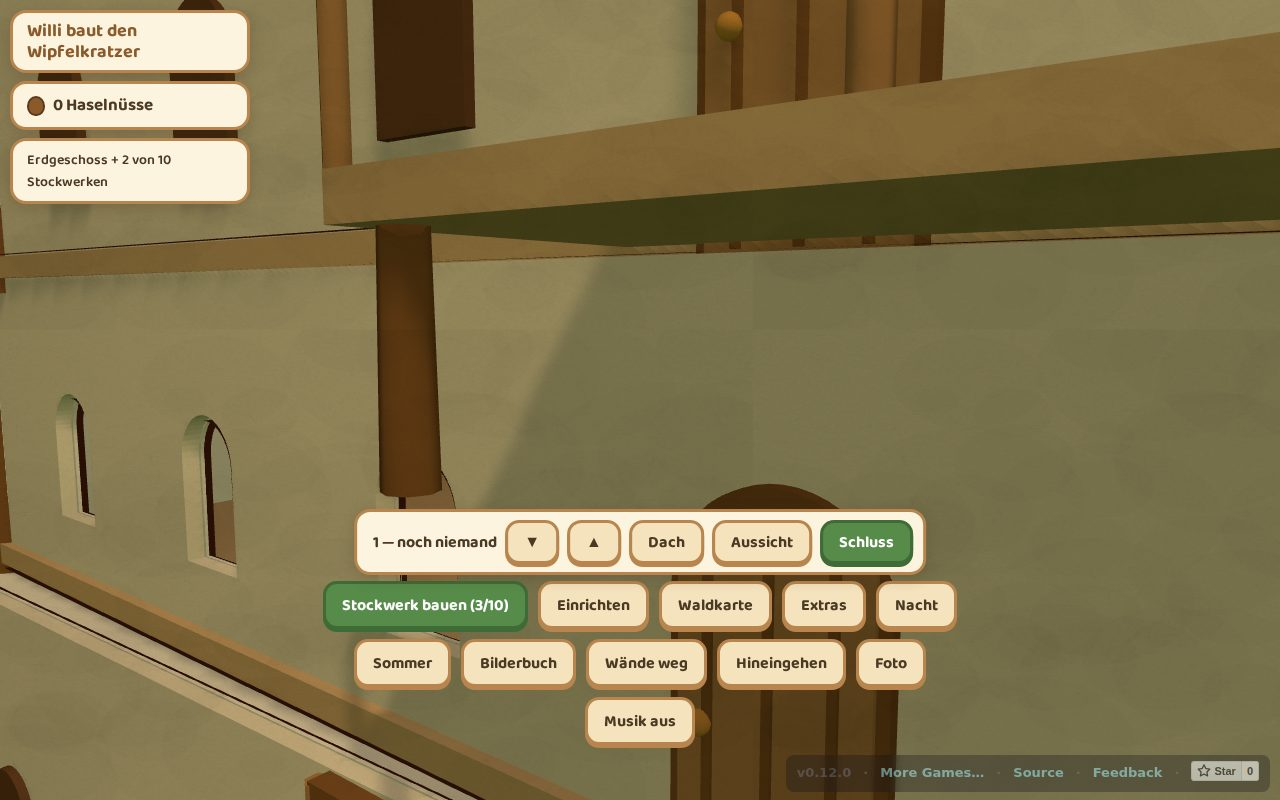
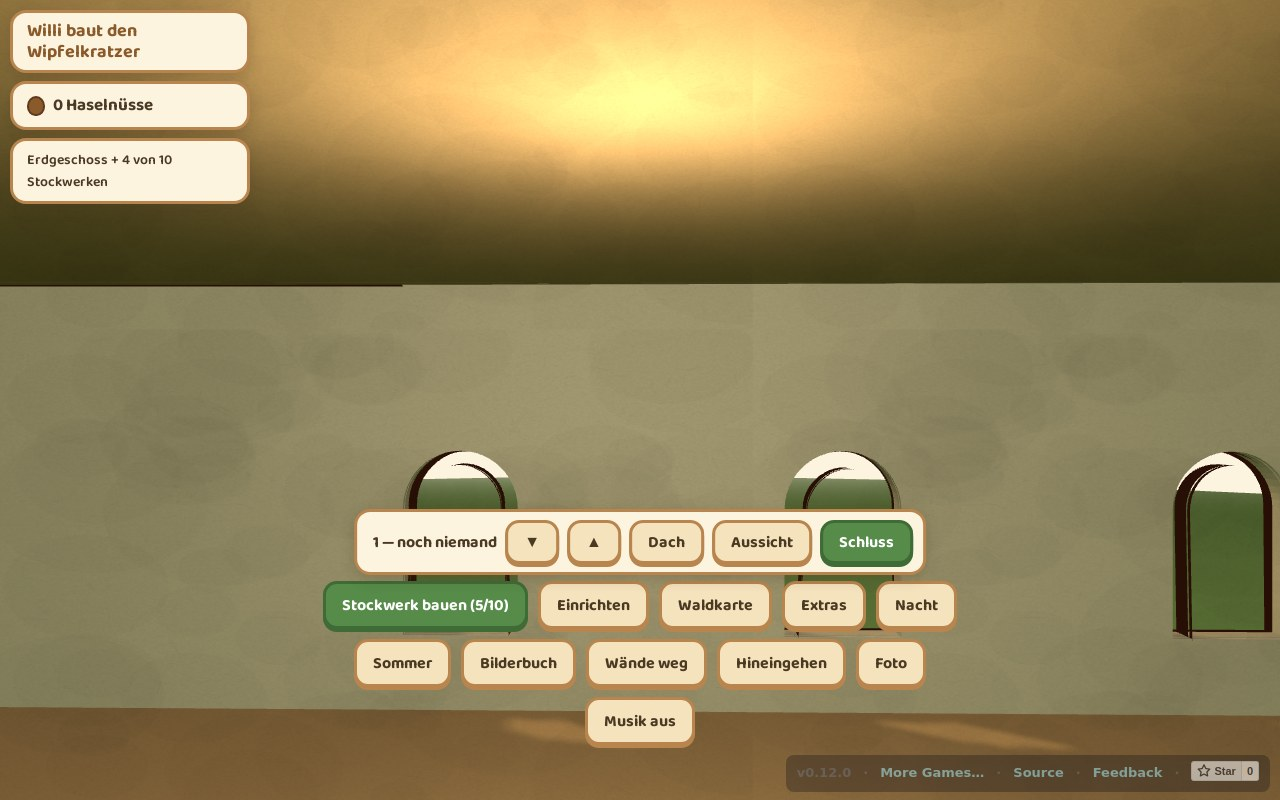
fix(stil): Kontur-, Rand- und Kornstärke auf die Kamera des Spiels einstellen
Die Prototyp-Werte (width 1.25, edge 1.0, grain 0.85) liessen die
Tuschekontur im Spiel unsichtbar. Die Tiefenskalierung im Hull-Vertex-
shader hält die Strichbreite über die Entfernung konstant, aber nicht
über das Sichtfeld: der Prototyp rendert mit fov 27 aus 12.5 Einheiten,
das Spiel mit fov 48 (js/game.js:186) aus rund 24. Die halbe Bildhöhe an
der Zielebene ist damit 10.7 statt 3.0 Einheiten — derselbe Versatz
ergibt knapp ein Fünftel der Strichbreite auf dem Schirm.

Am Turm gemessen: 5.0 zeichnet sauber, ab etwa 8.0 reisst die Wobble-
Funktion den Strich in schwebende Fetzen.

Die drei Stärken sind jetzt Uniforms (STYLE.width/.edge/.grain) statt
Zahlen im Shader-Text — Nachjustieren braucht damit keinen Shader-Eingriff
mehr und der Umschalter bleibt eine einzige Uniform.

Screenshot-Paar mit den neuen Werten neu aufgenommen. `verify_stil.py`
und `verify_katalog.py` bleiben grün; die Laufzeit-Falle von
verify_stil.py (>400 s unter Software-GL) steht jetzt im Plan.

Offen und bewusst nicht angefasst: das Papierkorn bleibt auch bei
grain 1.0 kaum sichtbar, weil die Textur nur 232..255 umfasst und damit
höchstens ~9 % abdunkelt. Das ist eine Frage des Texturkontrasts, keine
der drei Stärken — Entscheid liegt beim Menschen.

Claude-Session: https://claude.ai/code/session_01V6sbyGYqz5PaHY3WqtS8bK

diff --git a/js/stil.js b/js/stil.js
@@ -9,6 +9,23 @@ export const STYLE = {
   res: { value: new THREE.Vector2(1, 1) },
   paper: { value: null },
   offset: { value: new THREE.Vector2(0, 0) },
+  /* Die drei Stärken als Uniforms statt als Zahlen im Shader-Text — sie
+     mussten für die Kamera dieses Spiels neu eingestellt werden, und wer
+     sie später nachjustiert, soll dafür keinen Shader anfassen müssen.
+
+     Warum nicht die Prototyp-Werte (1.25 / 1.0 / 0.85): die Tiefen-
+     skalierung im Hull-Vertexshader hält die Strichbreite über die
+     Entfernung konstant, aber nicht über das Sichtfeld. Der Prototyp
+     rendert mit fov 27 aus 12.5 Einheiten, das Spiel mit **fov 48**
+     (js/game.js:186) aus rund 24 — die halbe Bildhöhe an der Zielebene
+     ist damit 10.7 statt 3.0 Einheiten, und derselbe Versatz liefert
+     knapp ein Fünftel der Strichbreite auf dem Schirm. Bei 1.25 war die
+     Kontur im Spiel schlicht unsichtbar. 5.0 ist am Turm gemessen; ab
+     etwa 8.0 reisst die Wobble-Funktion den Strich in schwebende
+     Fetzen. */
+  edge: { value: 1.6 },
+  grain: { value: 1.0 },
+  width: { value: 5.0 },
 };
 
 /* Papier wird gemalt, nicht geladen — das Spiel ist buildless und holt
@@ -88,6 +105,8 @@ export function patchLambert(mat) {
     shader.uniforms.uAquarell = STYLE.aquarell;
     shader.uniforms.uRes = STYLE.res;
     shader.uniforms.uPaper = STYLE.paper;
+    shader.uniforms.uEdge = STYLE.edge;
+    shader.uniforms.uGrain = STYLE.grain;
 
     const patch = MARKE + /* glsl */`
       if (uAquarell > 0.5) {
@@ -97,12 +116,12 @@ export function patchLambert(mat) {
            vom Licht — deshalb abs(), das Vorzeichen von vViewPosition
            spielt keine Rolle. */
         float rim = 1.0 - abs(dot(nn, normalize(vViewPosition)));
-        col = mix(col, col * 0.56, pow(rim, 2.4) * 1.0);
+        col = mix(col, col * 0.56, pow(rim, 2.4) * uEdge);
         /* Papierkorn im Screen Space. In UV gerechnet läse es sich als
            Material statt als Papier — der Bogen liegt VOR der Szene. */
         vec2 puv = gl_FragCoord.xy / uRes * 1.7;
         vec3 paper = texture2D(uPaper, puv).rgb;
-        col = mix(col, col * paper, 0.85);
+        col = mix(col, col * paper, uGrain);
         gl_FragColor.rgb = col;
       }`;
     if (!shader.fragmentShader.includes(MARKE)) {
@@ -110,7 +129,7 @@ export function patchLambert(mat) {
       return;
     }
     shader.fragmentShader =
-      'uniform float uAquarell;\nuniform vec2 uRes;\nuniform sampler2D uPaper;\n'
+      'uniform float uAquarell;\nuniform vec2 uRes;\nuniform sampler2D uPaper;\nuniform float uEdge;\nuniform float uGrain;\n'
       + shader.fragmentShader.replace(MARKE, patch);
   };
   /* Ohne eigenen Cache-Key teilen sich beide Stile ein Programm und der
@@ -132,7 +151,7 @@ export function hullMaterial() {
   if (hullMat) return hullMat;
   hullMat = new THREE.ShaderMaterial({
     side: THREE.BackSide,
-    uniforms: { uWidth: { value: 1.25 }, uOffset: STYLE.offset, uInk: { value: new THREE.Color(0x6e4426) } },
+    uniforms: { uWidth: STYLE.width, uOffset: STYLE.offset, uInk: { value: new THREE.Color(0x6e4426) } },
     vertexShader: GLSL_NOISE + /* glsl */`
       uniform float uWidth; uniform vec2 uOffset;
       void main(){

diff --git a/docs/ai-notes/plans/2026-09-28-aquarell-stil.md b/docs/ai-notes/plans/2026-09-28-aquarell-stil.md
@@ -506,6 +506,14 @@ mit grosszügigem Timeout. `python3 tools/verify_katalog.py` ebenfalls grün.
 
 ## Abnahme
 
+> **Laufzeit von `tools/verify_stil.py`:** unter Software-GL (headless,
+> swiftshader) braucht der Lauf **über 400 Sekunden** — er baut die Szene
+> mehrfach auf und misst Frame-Zeiten an einem Zehnstöcker, der dort bei rund
+> 1000 ms/Frame liegt. Ein `timeout 400` killt ihn mitten im Lauf, was wie ein
+> Fehlschlag aussieht und keiner ist. Gib dem Vordergrundaufruf mindestens
+> **1500 s** und lass ihn blockieren.
+
+
 1. Branch committen und **pushen**, erst danach prüfen.
 2. `python3 tools/verify_katalog.py` — grün, Vordergrund.
 3. `python3 tools/verify_stil.py` — grün, Vordergrund.
